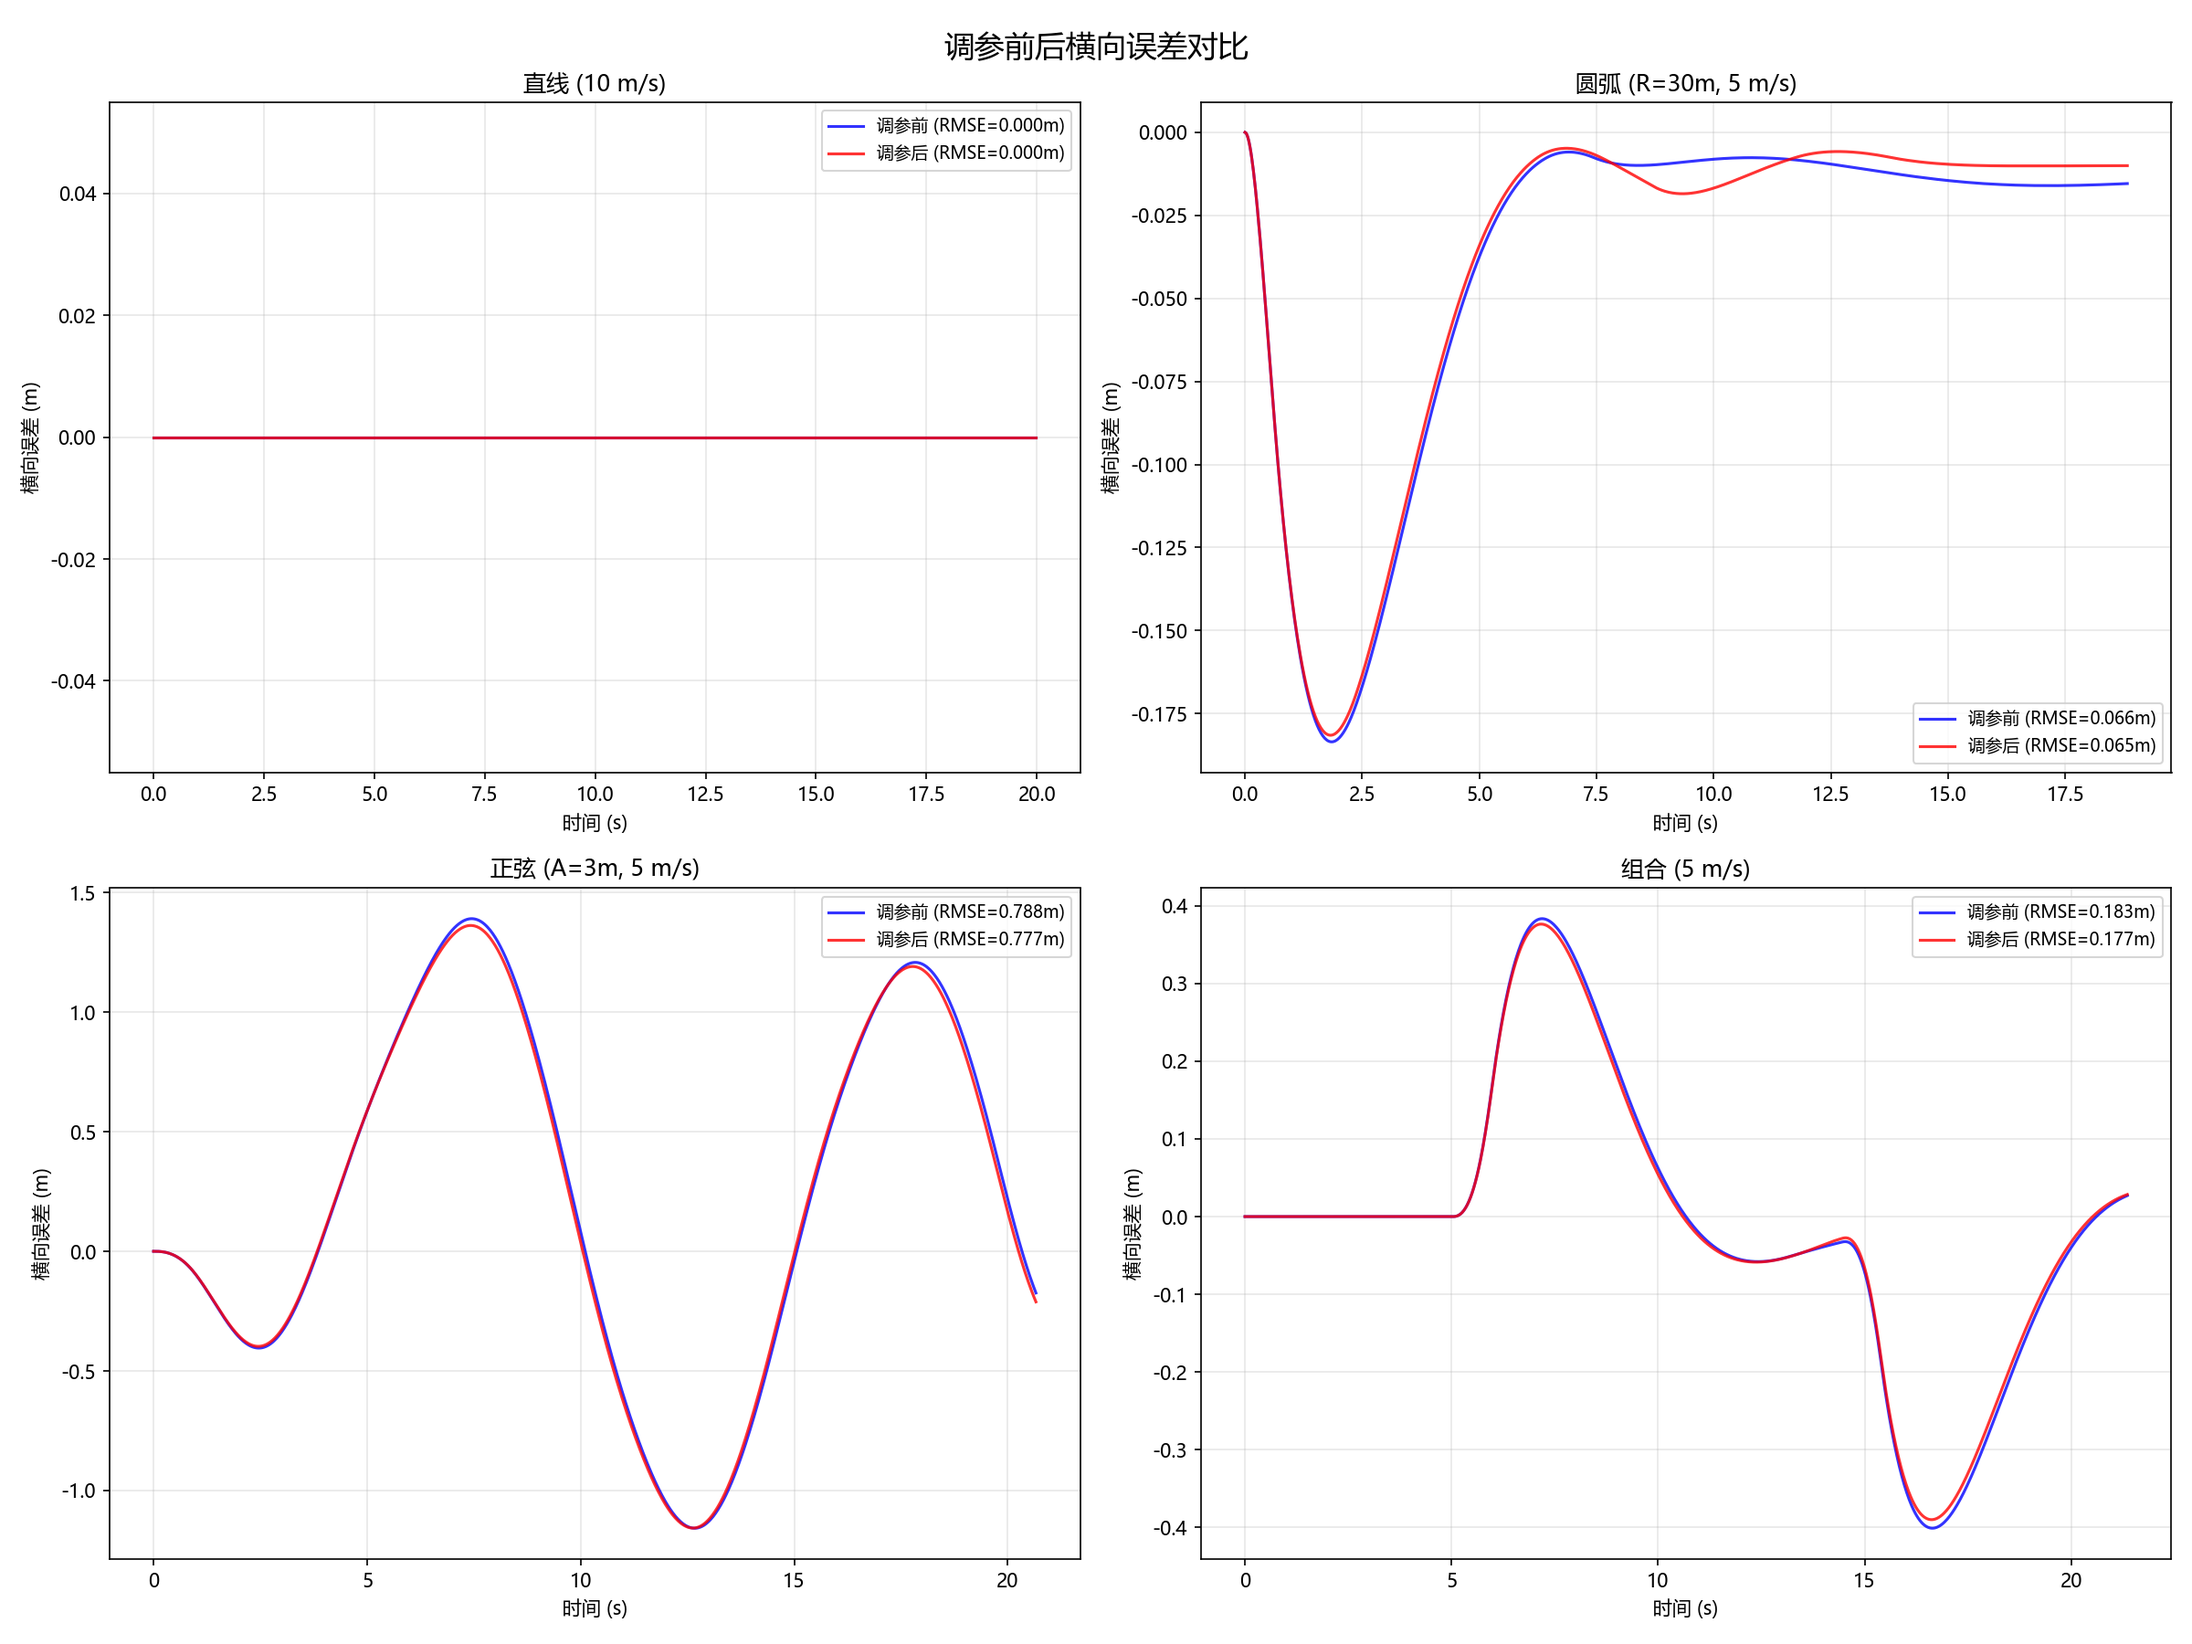
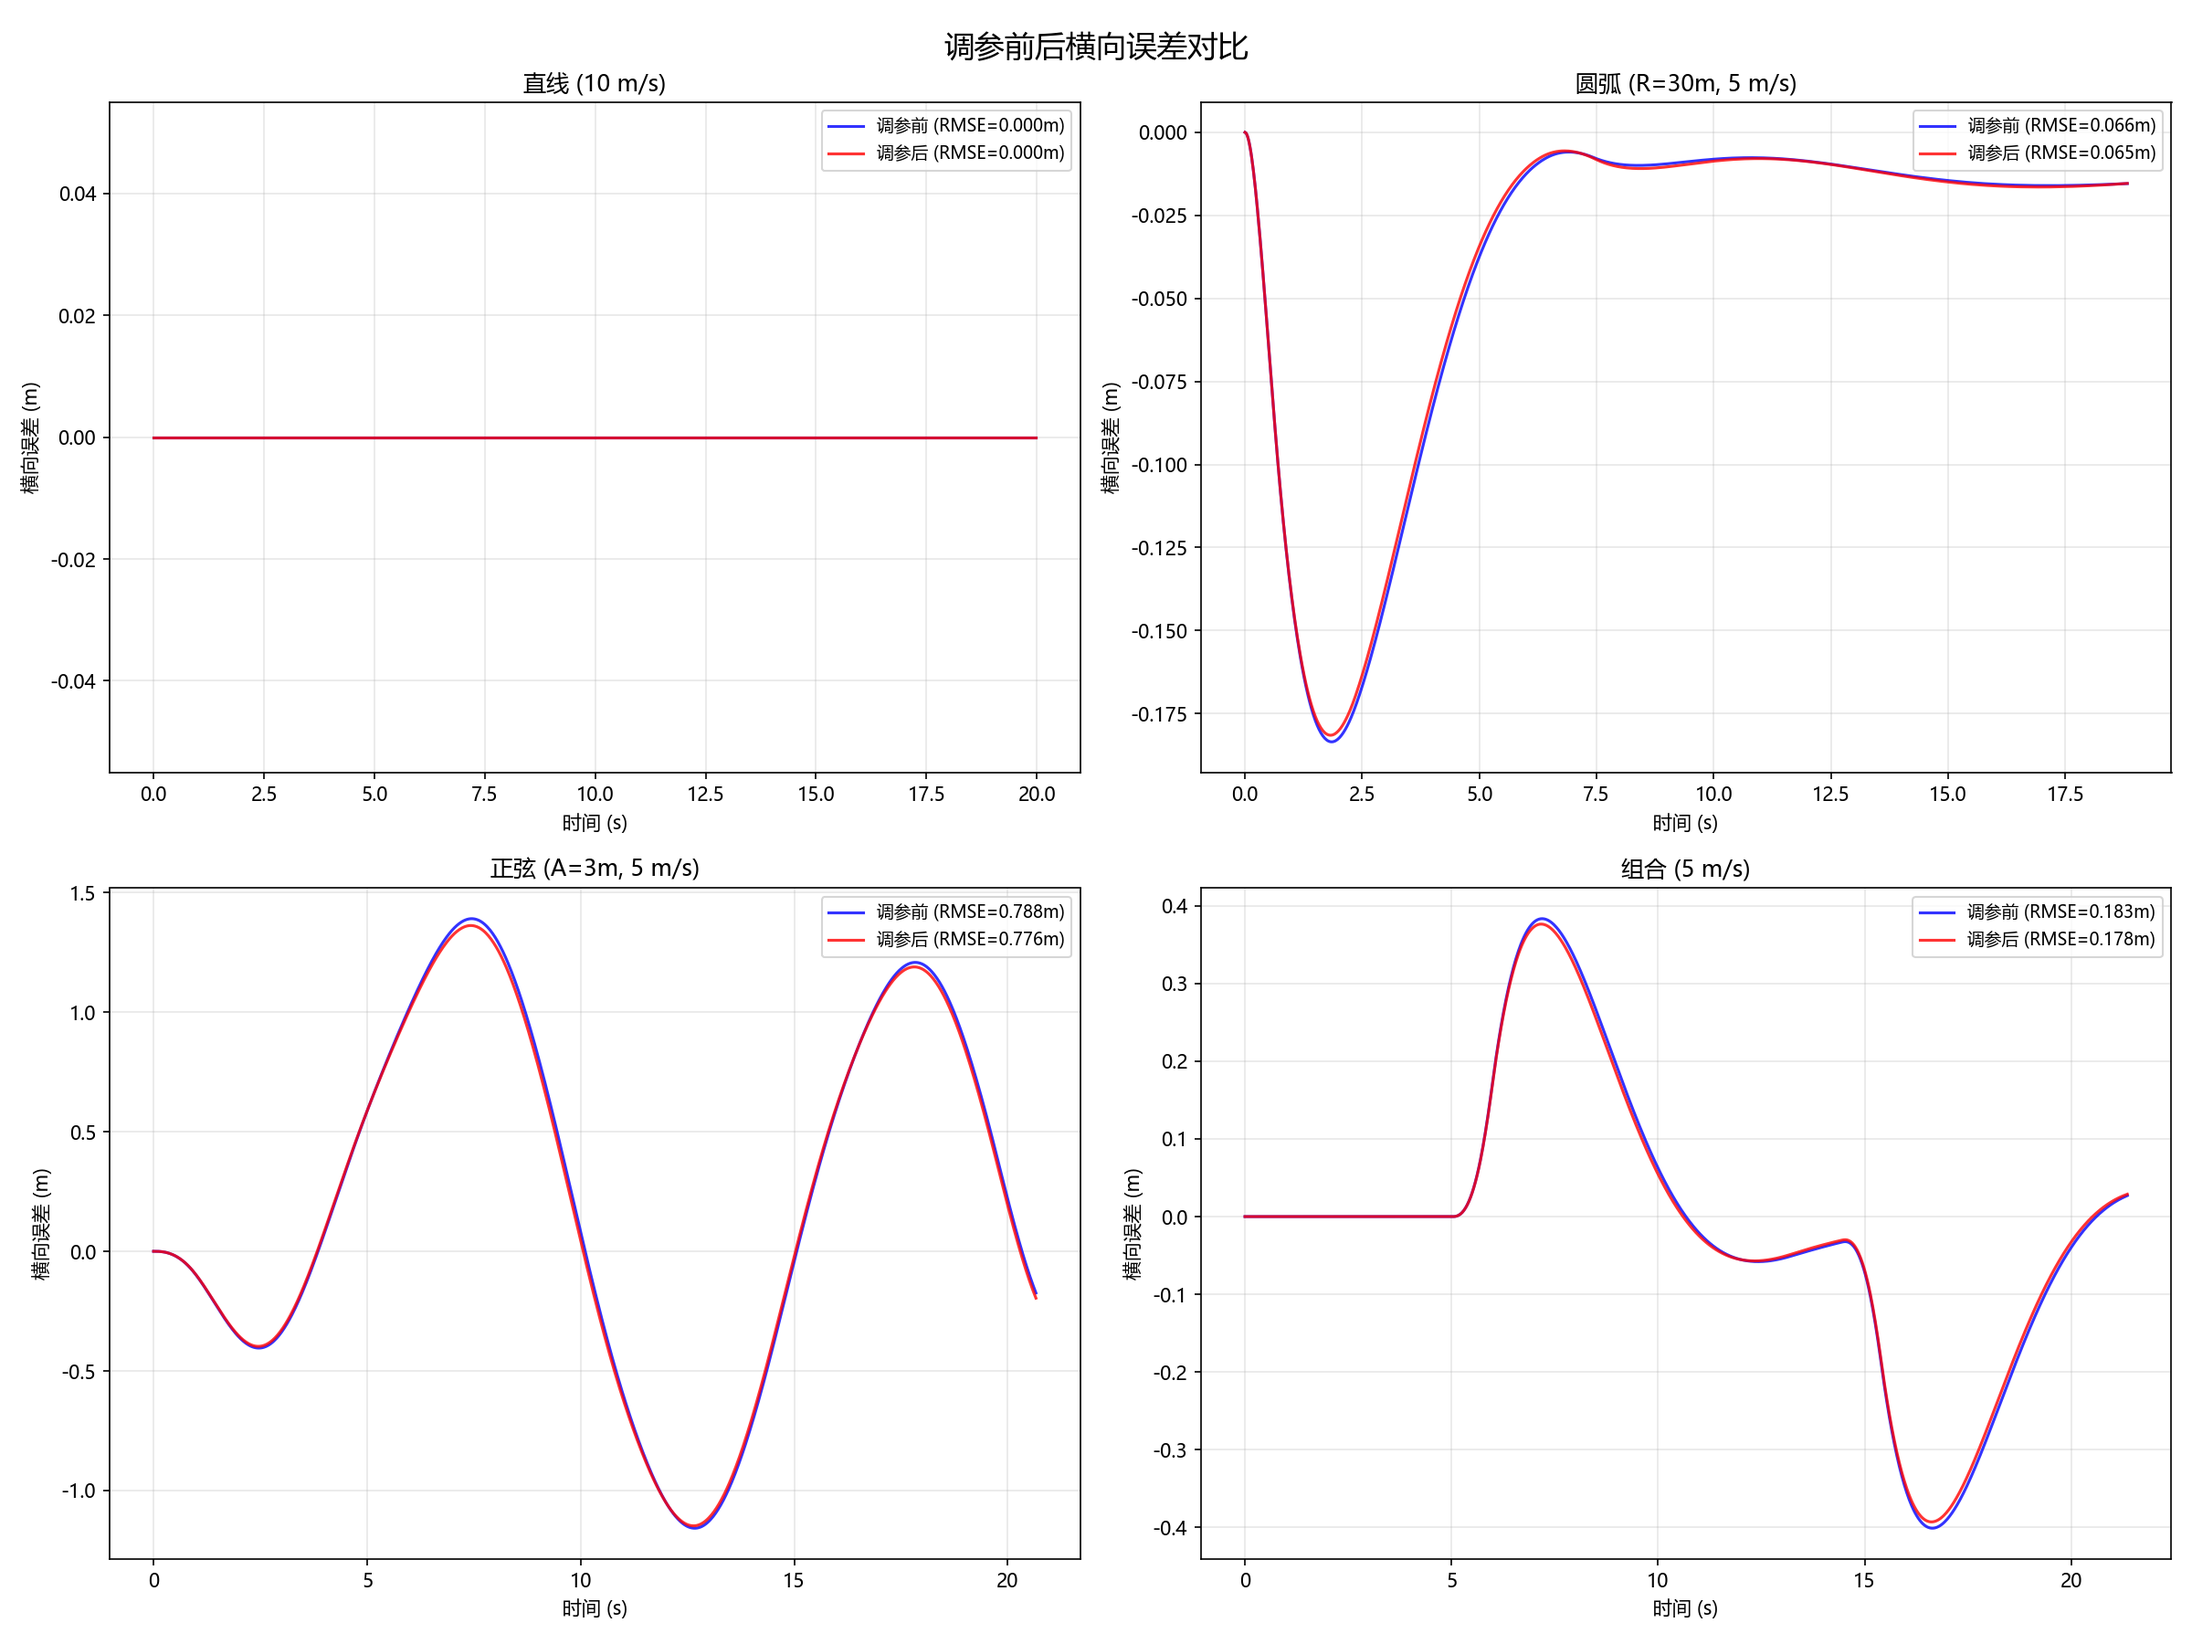
[sim] 用 STE clamp 替换 smooth_sign：消除横向梯度爆炸根源
sign(x)*min(|x|,L) ≡ clamp(x,-L,L)，原 C++ 分解写法引入了不必要的
smooth_sign（导数100x），直接用 _straight_through_clamp 替代（导数=1）。

效果：
- BPTT/有限差分比值：T2=0.91, T3=1.10（修复前 0.52，现在接近完美）
- 训练 grad_norm 恒定 0.49（完全不需要 clip）
- 30 epoch loss -3.0%，V1 验证全场景改善 1.6~2.7%

Changed region(s): [[0.8438, 0.0622, 1.0, 0.1244], [0.875, 0.4356, 1.0, 0.4667], [0.7188, 0.0933, 0.8125, 0.1244]]

diff --git a/sim/controller/lat_truck.py b/sim/controller/lat_truck.py
@@ -6,8 +6,8 @@ import torch
 import torch.nn as nn
 import math
 from common import (lookup1d, rate_limit, clamp, sign, normalize_angle,
-                    smooth_clamp, smooth_sign, smooth_lower_bound,
-                    smooth_upper_bound, smooth_min)
+                    smooth_clamp, smooth_lower_bound,
+                    _straight_through_clamp)
 from config import table_from_config
 from model.trajectory import TrajectoryAnalyzer
 
@@ -272,10 +272,9 @@ class LatControllerTruck(nn.Module):
         dis2lane = -lateral_error
         error_angle_raw = torch.atan(dis2lane / prev_dist)
         max_err_angle_limit = max_theta_deg * DEG2RAD
-        # smooth min(abs(error_angle_raw), max_err_angle_limit)
-        abs_error = torch.abs(error_angle_raw)
-        max_err_angle = smooth_min(abs_error, max_err_angle_limit)
-        target_theta = smooth_sign(error_angle_raw, temp=0.5) * max_err_angle
+        # sign(x)*min(|x|,L) ≡ clamp(x,-L,L)，直接用 STE clamp
+        target_theta = _straight_through_clamp(
+            error_angle_raw, -max_err_angle_limit, max_err_angle_limit)
 
         target_dt_theta = (torch.sin(real_theta) * speed_mps * prev_dist
                            / (prev_dist ** 2 + dis2lane ** 2) * -1.0)

diff --git a/docs/bptt_gradient_explosion_analysis.md b/docs/bptt_gradient_explosion_analysis.md
@@ -141,14 +141,47 @@ grad_norm = torch.nn.utils.clip_grad_norm_(params.parameters(), max_norm=10.0)
 - BPTT：0.070
 - 比值：0.52（同量级一致，smooth 近似引入的偏差可接受）
 
-## 6. 设计原则总结
+## 6. 进一步优化：消除不必要的 smooth 近似
 
-1. **smooth 近似的 temperature 必须足够大**，使局部导数 ≤ 2-3x。`temp = 0.01` 这种数值几乎必然导致梯度爆炸。
+### 6.1 发现 `sign(x) * min(|x|, L) ≡ clamp(x, -L, L)`
 
-2. **有限差分是 BPTT 梯度的 ground truth**。当怀疑梯度异常时，用 `(f(x+ε)-f(x-ε))/(2ε)` 验证。
+横向控制器 Step 6 的 C++ 原始代码用 `sign * min(abs, limit)` 分解实现限幅：
 
-3. **梯度爆炸 ≠ loss 爆炸**。闭环控制系统的 loss 景观通常是光滑有界的，但 BPTT 的链式乘法可能数值溢出。temperature 过小是最常见的原因。
+```python
+# C++ 风格分解（不必要的复杂）
+abs_error = abs(error_angle_raw)
+max_err_angle = min(abs_error, max_theta_limit)
+target_theta = sign(error_angle_raw) * max_err_angle
+```
 
-4. **gradient clipping 是安全网**，但不应该是主要手段。如果需要 clip 才能训练，说明 smooth 近似的 temperature 需要调整。
+可微复现时，逐个替换为 smooth 版本（smooth_sign + smooth_min + abs），引入了 smooth_sign 的高导数问题。
 
-5. **`tbptt_k`（截断窗口）控制梯度链长度**，越短越稳定但越短视。修复 temperature 后通常可以用较长的窗口（64-128 步）。
+但这整个操作数学上等价于：
+
+```python
+# 等价的简单形式
+target_theta = clamp(error_angle_raw, -max_theta_limit, max_theta_limit)
+```
+
+用 `_straight_through_clamp`（STE clamp）替代后：
+- 梯度在 clamp 范围内恒为 **1**（无放大）
+- BPTT 与有限差分比值：T2 → **0.91**，T3 → **1.10**（接近完美）
+- 消除了 smooth_sign 这个最大的梯度爆炸源
+
+### 6.2 启示
+
+在将硬限幅代码改为可微版本时，应先**化简数学表达式**，再选择 smooth 近似。不必忠实翻译 C++ 的每一步分解——先看整体做了什么运算，用最简单的可微形式实现。
+
+## 7. 设计原则总结
+
+1. **先化简再近似**。将硬限幅代码改为可微版本前，先检查整体运算是否有更简单的等价形式（如 `sign*min(|x|,L)` → `clamp`）。
+
+2. **smooth 近似的 temperature 必须足够大**，使局部导数 ≤ 2-3x。`temp = 0.01` 这种数值几乎必然导致梯度爆炸。
+
+3. **有限差分是 BPTT 梯度的 ground truth**。当怀疑梯度异常时，用 `(f(x+ε)-f(x-ε))/(2ε)` 验证。
+
+4. **梯度爆炸 ≠ loss 爆炸**。闭环控制系统的 loss 景观通常是光滑有界的，但 BPTT 的链式乘法可能数值溢出。
+
+5. **gradient clipping 是安全网**，但不应该是主要手段。如果需要 clip 才能训练，说明 smooth 近似有问题。
+
+6. **`tbptt_k`（截断窗口）控制梯度链长度**，越短越稳定但越短视。修复梯度问题后通常可以用较长的窗口（64-128 步）。

diff --git a/sim/CLAUDE.md b/sim/CLAUDE.md
@@ -105,7 +105,7 @@ python optim/train.py --epochs 50 --trajectories circle sine  # 训练
 
 ## 梯度爆炸防治（关键！）
 
-**smooth 近似的 temperature 过小是 BPTT 梯度爆炸的根因**：`smooth_sign(x, temp=0.01)` 在 x≈0 处导数 = 100，链式乘法 32 步 → 10^64 → Inf。loss 景观本身是光滑的（有限差分验证真实梯度 ~20），但 BPTT 的数值计算会溢出。**所有 smooth 近似的 temp 必须使局部导数 ≤ 2-3x**。详见 `docs/bptt_gradient_explosion_analysis.md`。
+**将硬限幅代码改为可微版本时，先化简数学表达式再选择近似方式**。例如 `sign(x)*min(|x|,L)` 本质是 `clamp(x,-L,L)`，直接用 STE clamp（导数=1）而非 smooth_sign（导数=100）。smooth 近似的 temperature 过小会导致 BPTT 链式乘法溢出（梯度爆炸≠loss 爆炸，用有限差分可验证真实梯度有界）。详见 `docs/bptt_gradient_explosion_analysis.md`。
 
 ## 备注
 
